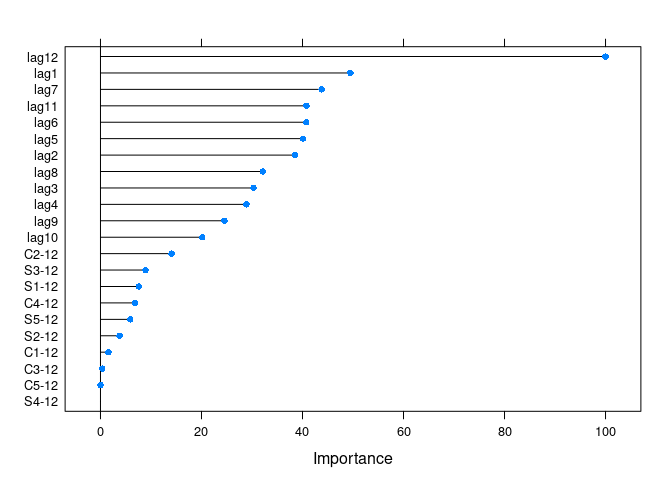
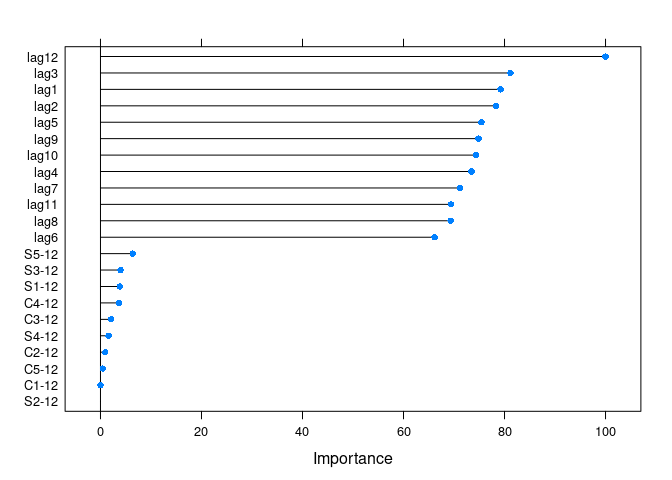
readme

diff --git a/README.md b/README.md
@@ -1,7 +1,8 @@
 
 <!-- README.md is generated from README.Rmd. Please edit that file -->
 
-# caretForecast
+caretForecast
+=============
 
 <!-- badges: start -->
 
@@ -18,7 +19,8 @@ The goal of caretForecast is to provide tools for forecasting time
 series data using various machine learning algorithms. (More details
 will follow…)
 
-## Installation
+Installation
+------------
 
 The development version from [GitHub](https://github.com/) with:
 
@@ -27,7 +29,8 @@ The development version from [GitHub](https://github.com/) with:
 devtools::install_github("Akai01/caretForecast")
 ```
 
-## Example
+Example
+-------
 
 ### Note: User can train any caret supported regression model.
 
@@ -35,7 +38,6 @@ These are basic examples which shows you how to solve common problems
 with different ML models.
 
 ``` r
-
 library(caretForecast)
 #> Registered S3 method overwritten by 'quantmod':
 #>   method            from
@@ -61,12 +63,12 @@ fit <- ARml(training_data, max_lag = 12, caret_method = "glmboost",
 forecast(fit, h = length(testing_data), level = c(95,80))-> fc
 
 accuracy(fc, testing_data)
-#>                    ME     RMSE       MAE       MPE     MAPE      MASE      ACF1
-#> Training set 0.607478 10.21615  7.290324 -0.203876 5.192473 0.4709039 0.4751444
-#> Test set     4.871290 14.70340 10.858000  1.314927 3.769520 0.7013508 0.3969524
-#>              Theil's U
-#> Training set        NA
-#> Test set     0.6046472
+#>                     ME     RMSE      MAE        MPE     MAPE      MASE
+#> Training set 0.8868074 16.39661 11.65025 -0.3620986 5.702257 0.7559694
+#> Test set     8.3976171 20.15546 17.20306  3.0153042 5.572722 1.1162843
+#>                   ACF1 Theil's U
+#> Training set 0.5707204        NA
+#> Test set     0.3971016 0.7547318
 
 
 fc_plot(fc) + 
@@ -76,7 +78,6 @@ autolayer(testing_data, series = "testing_data")
 <img src="man/figures/README-example-1.png" width="100%" />
 
 ``` r
-
 
 
 ## NOTE : Promotions, holidays, and other external variables can be added in the model via xreg argument. Please look at the documentation of ARml.
@@ -99,12 +100,12 @@ fit <- ARml(training_data, max_lag = 12, caret_method = "cubist",
 forecast(fit, h = length(testing_data), level = c(95,80))-> fc
 
 accuracy(fc, testing_data)
-#>                      ME      RMSE      MAE         MPE     MAPE      MASE
-#> Training set  0.3297442  8.998975 6.453195 -0.03980343 3.132082 0.4187394
-#> Test set     -3.1496258 14.421058 9.957933 -0.76868573 3.035664 0.6461573
-#>                   ACF1 Theil's U
-#> Training set 0.1062483        NA
-#> Test set     0.2273518 0.5300733
+#>                     ME     RMSE      MAE         MPE     MAPE      MASE
+#> Training set 0.3452345 16.39877 12.22406 -0.08475644 2.533889 0.4073634
+#> Test set     2.5562312 14.21461 12.39887  0.24907619 1.592606 0.4131888
+#>                    ACF1 Theil's U
+#> Training set  0.2309758        NA
+#> Test set     -0.1450719 0.1701567
 
 fc_plot(fc) + 
 autolayer(testing_data, series = "testing_data")
@@ -113,7 +114,6 @@ autolayer(testing_data, series = "testing_data")
 <img src="man/figures/README-example-2.png" width="100%" />
 
 ``` r
-
 
 
 # Forecasting using Support Vector Machines with Linear Kernel
@@ -134,12 +134,12 @@ fit <- ARml(training_data, max_lag = 12, caret_method = "svmLinear",
 forecast(fit, h = length(testing_data), level = c(95,80))-> fc
 
 accuracy(fc, testing_data)
-#>                      ME     RMSE      MAE        MPE     MAPE      MASE
-#> Training set 0.08139721 17.53112 13.62193 -0.2546303 4.112980 0.7153960
-#> Test set     3.44175464 20.51069 15.60614  0.7824485 3.125285 0.8196031
-#>                     ACF1 Theil's U
-#> Training set  0.01627236        NA
-#> Test set     -0.18179943 0.1854082
+#>                        ME     RMSE      MAE       MPE     MAPE      MASE
+#> Training set -0.004996011 5.218181 3.980904 -0.333970 4.500042 0.5563544
+#> Test set     -7.264572944 9.403773 7.652439 -8.319266 8.642448 1.0694725
+#>                    ACF1 Theil's U
+#> Training set 0.02901247        NA
+#> Test set     0.22464379 0.7207839
 
 fc_plot(fc) + 
 autolayer(testing_data, series = "testing_data")
@@ -148,14 +148,12 @@ autolayer(testing_data, series = "testing_data")
 <img src="man/figures/README-example-3.png" width="100%" />
 
 ``` r
-
 get_var_imp(fc)
 ```
 
 <img src="man/figures/README-example-4.png" width="100%" />
 
 ``` r
-
 get_var_imp(fc, plot = F)
 #> loess r-squared variable importance
 #> 
@@ -163,25 +161,25 @@ get_var_imp(fc, plot = F)
 #> 
 #>        Overall
 #> lag12 100.0000
-#> lag1   49.4817
-#> lag7   43.7834
-#> lag11  40.7832
-#> lag6   40.7463
-#> lag5   40.0977
-#> lag2   38.5547
-#> lag8   32.1267
-#> lag3   30.2872
-#> lag4   28.9004
-#> lag9   24.5431
-#> lag10  20.1536
-#> C2-12  14.0799
-#> S3-12   8.9038
-#> S1-12   7.5752
-#> C4-12   6.8879
-#> S5-12   5.8994
-#> S2-12   3.7769
-#> C1-12   1.5751
-#> C3-12   0.3495
+#> lag3   81.1655
+#> lag1   79.2218
+#> lag2   78.2771
+#> lag5   75.4255
+#> lag9   74.8507
+#> lag10  74.3075
+#> lag4   73.4707
+#> lag7   71.2428
+#> lag11  69.4001
+#> lag8   69.3380
+#> lag6   66.1550
+#> S5-12   6.4068
+#> S3-12   3.9841
+#> S1-12   3.8337
+#> C4-12   3.6437
+#> C3-12   2.1007
+#> S4-12   1.6039
+#> C2-12   0.9426
+#> C5-12   0.4801
 
 
 
@@ -202,12 +200,12 @@ fit <- ARml(training_data, max_lag = 12, caret_method = "ridge",
 forecast(fit, h = length(testing_data), level = c(95,80))-> fc
 
 accuracy(fc, testing_data)
-#>                      ME     RMSE       MAE       MPE     MAPE      MASE
-#> Training set  0.1610492  6.82989  4.878706 -0.112876 3.673076 0.3151303
-#> Test set     14.3399436 18.17074 14.659070  5.000961 5.136127 0.9468733
-#>                    ACF1 Theil's U
-#> Training set 0.01354464        NA
-#> Test set     0.25207860 0.7777944
+#>                     ME     RMSE      MAE        MPE     MAPE      MASE
+#> Training set 0.1414756  8.88367  6.44208 -0.0953757 3.126316 0.4180182
+#> Test set     0.9965672 17.71459 13.30744  0.7019753 4.092068 0.8635023
+#>                     ACF1 Theil's U
+#> Training set 0.004518837        NA
+#> Test set     0.389409945 0.6513039
 
 fc_plot(fc) + 
 autolayer(testing_data, series = "testing_data")
@@ -216,38 +214,36 @@ autolayer(testing_data, series = "testing_data")
 <img src="man/figures/README-example-5.png" width="100%" />
 
 ``` r
-
 get_var_imp(fc)
 ```
 
 <img src="man/figures/README-example-6.png" width="100%" />
 
 ``` r
-
 get_var_imp(fc, plot = F)
 #> loess r-squared variable importance
 #> 
 #>   only 20 most important variables shown (out of 22)
 #> 
 #>         Overall
-#> lag1  100.00000
-#> lag12  99.74827
-#> lag2   97.78807
-#> lag3   97.74610
-#> lag4   97.10962
-#> lag5   97.08285
-#> lag7   96.20291
-#> lag11  95.90430
-#> lag6   95.80115
-#> lag8   95.68963
-#> lag9   95.38585
-#> lag10  94.50733
-#> C1-12   0.68853
-#> S3-12   0.60001
-#> C2-12   0.50234
-#> C4-12   0.44290
-#> S5-12   0.41720
-#> S1-12   0.40638
-#> S2-12   0.09599
-#> C5-12   0.05234
+#> lag12 100.00000
+#> lag1   89.57697
+#> lag11  86.89260
+#> lag2   85.81967
+#> lag3   84.07269
+#> lag10  83.53358
+#> lag9   82.52774
+#> lag7   82.18917
+#> lag4   81.93730
+#> lag5   81.85290
+#> lag8   81.22696
+#> lag6   79.96364
+#> S1-12   4.51371
+#> S3-12   1.59063
+#> C2-12   1.54661
+#> S5-12   1.53004
+#> C4-12   1.24044
+#> C1-12   0.38784
+#> S2-12   0.35446
+#> S4-12   0.07244
 ```
